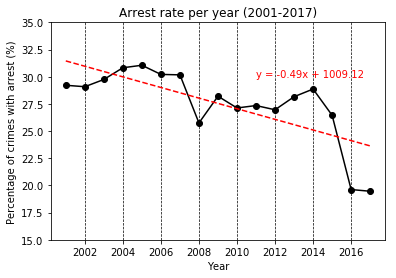
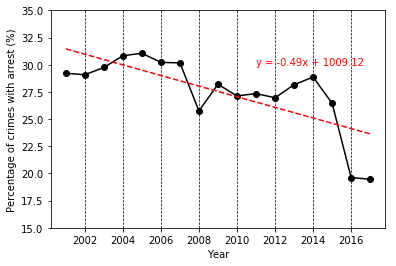
Visualizations

Changed region(s): [[0.1515, 0.1805, 0.9697, 0.7218], [0.0, 0.0301, 0.9697, 0.812], [0.0606, 0.8421, 0.9697, 0.9925]]

diff --git a/Assignment 2/Code/Francois/overallmap.html b/Assignment 2/Code/Francois/overallmap.html
@@ -1,0 +1,75 @@
+<!DOCTYPE html>
+<head>    
+    <meta http-equiv="content-type" content="text/html; charset=UTF-8" />
+    <script>L_PREFER_CANVAS=false; L_NO_TOUCH=false; L_DISABLE_3D=false;</script>
+    <script src="https://cdn.jsdelivr.net/npm/leaflet@1.2.0/dist/leaflet.js"></script>
+    <script src="https://ajax.googleapis.com/ajax/libs/jquery/1.11.1/jquery.min.js"></script>
+    <script src="https://maxcdn.bootstrapcdn.com/bootstrap/3.2.0/js/bootstrap.min.js"></script>
+    <script src="https://cdnjs.cloudflare.com/ajax/libs/Leaflet.awesome-markers/2.0.2/leaflet.awesome-markers.js"></script>
+    <link rel="stylesheet" href="https://cdn.jsdelivr.net/npm/leaflet@1.2.0/dist/leaflet.css"/>
+    <link rel="stylesheet" href="https://maxcdn.bootstrapcdn.com/bootstrap/3.2.0/css/bootstrap.min.css"/>
+    <link rel="stylesheet" href="https://maxcdn.bootstrapcdn.com/bootstrap/3.2.0/css/bootstrap-theme.min.css"/>
+    <link rel="stylesheet" href="https://maxcdn.bootstrapcdn.com/font-awesome/4.6.3/css/font-awesome.min.css"/>
+    <link rel="stylesheet" href="https://cdnjs.cloudflare.com/ajax/libs/Leaflet.awesome-markers/2.0.2/leaflet.awesome-markers.css"/>
+    <link rel="stylesheet" href="https://rawgit.com/python-visualization/folium/master/folium/templates/leaflet.awesome.rotate.css"/>
+    <style>html, body {width: 100%;height: 100%;margin: 0;padding: 0;}</style>
+    <style>#map {position:absolute;top:0;bottom:0;right:0;left:0;}</style>
+    
+    <style>#map_36b703a30212484faa273f664e2eba12 {
+        position: relative;
+        width: 100.0%;
+        height: 100.0%;
+        left: 0.0%;
+        top: 0.0%;
+        }
+    </style>
+    <script src="https://leaflet.github.io/Leaflet.heat/dist/leaflet-heat.js"></script>
+</head>
+<body>    
+    
+    <div class="folium-map" id="map_36b703a30212484faa273f664e2eba12" ></div>
+</body>
+<script>    
+    
+    
+        var bounds = null;
+    
+
+    var map_36b703a30212484faa273f664e2eba12 = L.map(
+        'map_36b703a30212484faa273f664e2eba12', {
+        center: [41.8281, -87.6298],
+        zoom: 12,
+        maxBounds: bounds,
+        layers: [],
+        worldCopyJump: false,
+        crs: L.CRS.EPSG3857,
+        zoomControl: true,
+        });
+
+    
+    
+    var tile_layer_acbe4030b320409eb305857ba6369a19 = L.tileLayer(
+        'https://stamen-tiles-{s}.a.ssl.fastly.net/terrain/{z}/{x}/{y}.jpg',
+        {
+        "attribution": null,
+        "detectRetina": false,
+        "maxNativeZoom": 18,
+        "maxZoom": 18,
+        "minZoom": 0,
+        "noWrap": false,
+        "subdomains": "abc"
+}).addTo(map_36b703a30212484faa273f664e2eba12);
+    
+            var heat_map_bc6e206e0873460a99400e4df9d8eedb = L.heatLayer(
+                [[41.882350368, -87.756681491], [41.89087852, -87.745663778], [41.850695232, -87.695413067], [41.8840708, -87.722149853], [41.87448398, -87.718334431], [41.882435247, -87.733079304], [41.877039505, -87.729311002], [41.878825285, -87.729173009], [41.888411942, -87.751691042], [41.881305719, -87.756316323], [41.882786648, -87.706900228], [41.882313791, -87.752690113], [41.879172555, -87.710952739], [41.865205115, -87.694604352], [41.886150243, -87.756500424], [41.854959168, -87.694309878], [41.892182548, -87.755498573], [41.878521203, -87.751057355], [41.885479884, -87.714193016], [41.88093546, -87.709132611], [41.883843326, -87.75397259], [41.884821576, -87.760247174], [41.884074783, -87.721867046], [41.867671357, -87.695934543], [41.868834791, -87.686098192], [41.884640098, -87.729125574], [41.878772294, -87.73372314], [41.869330268, -87.687341495], [41.88229508, -87.760989506], [41.880511176, -87.744139376], [41.8865745, -87.765086511], [41.884827928, -87.757676459], [41.884756562, -87.757673427], [41.877904548, -87.731517054], [41.874552849, -87.710237503], [41.88227454, -87.720833956], [41.879662518, -87.73393147], [41.885686714, -87.751653331], [41.882297385, -87.760901352], [41.851044726, -87.691155566], [41.883320972, -87.729288566], [41.863798633, -87.695829834], [41.885372086, -87.707973018], [41.869825578, -87.700895375], [41.890193984, -87.752978676], [41.881141034, -87.75631046], [41.884916598, -87.76334948], [41.878764192, -87.734274019], [41.884532588, -87.738494751], [41.881944276, -87.734178216], [41.880402083, -87.752894698], [41.852788089, -87.694243396], [41.850136796, -87.691230714], [41.883057686, -87.751104303], [41.890045974, -87.756281743], [41.88173662, -87.751432105], [41.881974724, -87.731603717], [41.878563206, -87.747983503], [41.885484528, -87.714545522], [41.884673784, -87.726146975], [41.878857958, -87.726521499], [41.877756484, -87.720642095], [41.881907474, -87.704705497], [41.879664208, -87.73372949], [41.880773152, -87.721810393], [41.887293707, -87.760709851], [41.861600002, -87.690818686], [41.885451698, -87.7120229], [41.891965053, -87.754270153], [41.885456329, -87.712371733], [41.883576472, -87.709830347], [41.885346397, -87.709809466], [41.875132297, -87.710819365], [41.885346397, -87.709809466], [41.865218836, -87.694604216], [41.886371913, -87.709656269], [41.885346397, -87.709809466], [41.884496442, -87.741590875], [41.877352998, -87.702881119], [41.884794882, -87.747882556], [41.876701468, -87.751540206], [41.884528849, -87.738832642], [41.880848925, -87.763209368], [41.883320837, -87.729262861], [41.891372774, -87.746794125], [41.882321465, -87.74289255], [41.88453108, -87.738733468], [41.85104092, -87.691456579], [41.881972634, -87.731728591], [41.878521203, -87.751057355], [41.883582151, -87.709360238], [41.885336056, -87.738909623], [41.884574376, -87.734917492], [41.894081682, -87.744179948], [41.854573555, -87.695536037], [41.879268101, -87.743618348], [41.883672448, -87.752740241], [41.881011636, -87.730584551], [41.879665484, -87.704716455], [41.876894273, -87.711356724], [41.894081682, -87.744179948], [41.891377647, -87.74613666], [41.880970165, -87.750190529], [41.880443165, -87.749629814], [41.89265712, -87.745728277], [41.87834845, -87.709282635], [41.881971063, -87.73195261], [41.884807342, -87.75033191], [41.87722724, -87.714573778], [41.892067276, -87.755495939], [41.88456033, -87.735909158], [41.882784485, -87.707006744], [41.878797386, -87.731699622], [41.878060291, -87.743552341], [41.877966315, -87.726566655], [41.878083645, -87.741690431], [41.87879543, -87.731850193], [41.852871485, -87.691482324], [41.886373999, -87.709535057], [41.887293707, -87.760709851], [41.879417527, -87.751934184], [41.879162037, -87.753508135], [41.879264158, -87.743919492], [41.881769712, -87.74876212], [41.879413972, -87.752316111], [41.867459843, -87.698374433], [41.867511611, -87.686992668], [41.884377535, -87.751077631], [41.87768079, -87.746074793], [41.885649271, -87.754562223], [41.884964505, -87.756456004], [41.867620011, -87.702040556], [41.876168106, -87.726429446], [41.885075608, -87.758911829], [41.880983904, -87.750194076], [41.878306869, -87.699684455], [41.880890087, -87.763209002], [41.883006284, -87.763285669], [41.877078298, -87.726259269], [41.89361121, -87.753105675], [41.885796343, -87.706261206], [41.878308499, -87.69948248], [41.884468347, -87.744132398], [41.883534484, -87.756402767], [41.88171283, -87.753239038], [41.878940618, -87.701147005], [41.887509022, -87.707316832], [41.876889851, -87.706003122], [41.8779684, -87.726441788], [41.876028038, -87.692069498], [41.878715383, -87.738611126], [41.881274093, -87.758765942], [41.878085444, -87.741506816], [41.87671154, -87.750820421], [41.894005312, -87.751809249], [41.851957226, -87.691407043], [41.879633871, -87.707973888], [41.857401475, -87.694788463], [41.88548439, -87.714519817], [41.879548259, -87.714459585], [41.883014431, -87.754490523], [41.881713257, -87.753323494], [41.877962146, -87.726816388], [41.876889851, -87.706003122], [41.868314848, -87.69766106], [41.877917143, -87.715797232], [41.883014431, -87.754490523], [41.877018633, -87.731084735], [41.888673538, -87.747009792], [41.880514786, -87.702956531], [41.852873122, -87.691284098], [41.880778039, -87.750184931], [41.878739722, -87.73642605], [41.878188634, -87.74933454], [41.885647128, -87.729105069], [41.859244767, -87.694142402], [41.876768799, -87.746435646], [41.885778565, -87.76064626], [41.883603754, -87.757628691], [41.882981702, -87.722218988], [41.878764192, -87.734274019], [41.881738731, -87.751307231], [41.877882222, -87.73354419], [41.885358666, -87.736918975], [41.850137206, -87.691304117], [41.881972634, -87.731728591], [41.8865745, -87.765086511], [41.877851463, -87.736067119], [41.882948676, -87.761633664], [41.891923124, -87.757939633], [41.878085576, -87.741532518], [41.883784731, -87.735578531], [41.856393346, -87.695598712], [41.877613754, -87.751234503], [41.854896033, -87.694306836], [41.884519099, -87.739600253], [41.877232939, -87.714103716], [41.877957845, -87.703583864], [41.880742866, -87.72437383], [41.881088655, -87.720764494], [41.867729003, -87.695937642], [41.877479257, -87.692473591], [41.881916134, -87.736679247], [41.869330124, -87.687315796], [41.874581632, -87.709473494], [41.890640001, -87.755442694], [41.879777172, -87.724427063], [41.859244767, -87.694142402], [41.885908871, -87.706263778], [41.892190108, -87.754275465], [41.877933128, -87.703580435], [41.886399263, -87.707621463], [41.868821071, -87.68609833], [41.883069399, -87.763285108], [41.865260018, -87.694607477], [41.87874155, -87.736249776], [41.881906911, -87.704602681], [41.876750158, -87.703544314], [41.886399263, -87.707621463], [41.886542066, -87.755288658], [41.88809069, -87.760390567], [41.877298326, -87.70894769], [41.863400636, -87.695815432], [41.876924728, -87.738870075], [41.884751129, -87.752778215], [41.880309917, -87.735464033], [41.879075191, -87.749366861], [41.879494242, -87.745977404], [41.883574366, -87.709947881], [41.8884167, -87.75046436], [41.881738601, -87.751281527], [41.877140739, -87.721477831], [41.868420816, -87.687145052], [41.877338858, -87.704305968], [41.876894372, -87.702320152], [41.878770335, -87.733873711], [41.881861585, -87.707357271], [41.886417779, -87.758958565], [41.873737423, -87.701627875], [41.879633871, -87.707973888], [41.879437262, -87.750413773], [41.879167386, -87.713548922], [41.891603117, -87.745686519], [41.882324537, -87.735529713], [41.887858393, -87.725870759], [41.87852563, -87.750848011], [41.883322403, -87.729038837], [41.878558822, -87.748200191], [41.878712753, -87.738633183], [41.887876165, -87.7488607], [41.883171147, -87.741625138], [41.891438165, -87.741886739], [41.887872826, -87.749283072], [41.877935729, -87.72909326], [41.866604054, -87.686645691], [41.878800777, -87.73129934], [41.887285778, -87.75693091], [41.885451579, -87.712000866], [41.851912547, -87.694714592], [41.877140857, -87.721499862], [41.888322067, -87.75291115], [41.893013865, -87.753827285], [41.891327825, -87.751444225], [41.88079176, -87.750184807], [41.886303497, -87.714765311], [41.878563206, -87.747983503], [41.886643019, -87.763407584], [41.865205115, -87.694604352], [41.881907594, -87.704727529], [41.876807805, -87.70354742], [41.885188135, -87.758914493], [41.858918534, -87.693216918], [41.876728668, -87.715757267], [41.88173649, -87.751406401], [41.890186852, -87.745640737], [41.877476779, -87.692521351], [41.876882139, -87.701093855], [41.879747768, -87.726648948], [41.878713, -87.738680917], [41.881771933, -87.748659279], [41.88533468, -87.739174049], [41.883582151, -87.709360238], [41.877939768, -87.728817824], [41.877352817, -87.702848073], [41.876229753, -87.721497536], [41.8931856, -87.744430591], [41.882292995, -87.761121725], [41.863568068, -87.695821111], [41.89007705, -87.745634398], [41.878823333, -87.72932358], [41.890375151, -87.752988054], [41.875887439, -87.704859964], [41.868419042, -87.687317627], [41.881906911, -87.704602681], [41.891777712, -87.753037795], [41.885372606, -87.708068496], [41.8709931, -87.702113843], [41.864259582, -87.693347204], [41.883192958, -87.761642503], [41.876770624, -87.746255705], [41.852867412, -87.691735631], [41.852867125, -87.691684247], [41.887238537, -87.763964185], [41.880417645, -87.751631349], [41.880905236, -87.71216242], [41.878799341, -87.731549051], [41.883053594, -87.75137976], [41.885614994, -87.757023049], [41.885447881, -87.711824627], [41.887503211, -87.707761263], [41.881734769, -87.751608387]],
+                {
+                    minOpacity: 0.025,
+                    maxZoom: 1,
+                    max: 1.0,
+                    radius: 10.5,
+                    blur: 23,
+                    gradient: null
+                    })
+                .addTo(map_36b703a30212484faa273f664e2eba12);
+        
+</script>

diff --git a/Assignment 2/Code/Francois/Heatmap Visualisation.py b/Assignment 2/Code/Francois/Heatmap Visualisation.py
@@ -1,0 +1,68 @@
+import folium
+from folium.plugins import HeatMap
+import linecache
+import csv
+from datetime import datetime
+
+def str2bool(v):
+    return v.lower() in ("yes", "true", "t", "1")
+        
+LOCATION = '/home/francois/Source/smaller.csv'
+LOCATION = '/home/francois/Source/Crimes_-_2001_to_present.csv'
+lines = 6683206
+
+rng = [x + 2 for x in range(lines-1)]
+data = []
+for i in rng:
+    if (i % 10 != 0): continue
+    if (i >= len(rng)): break
+    line = linecache.getline(LOCATION, rng[i])
+    reader = csv.reader(line.splitlines(), quotechar='"', delimiter=',')
+    splitted = next(reader)
+    try:
+        lat = float(splitted[19])
+        lng = float(splitted[20])
+        arrest = str2bool(splitted[8])
+        domestic = str2bool(splitted[9])
+        primaryType = splitted[5]
+        year = int(splitted[17])
+        locationDescription = splitted[7]
+        ward = int(splitted[12])
+        ts = datetime.strptime(splitted[2], '%m/%d/%Y %I:%M:%S %p')
+        data.append((lat, lng, arrest, domestic, primaryType, year, locationDescription, ward, ts))
+    except:
+        pass
+
+filteredData = [x for x in data if x[5] >= 2001 and x[5] < 2006]
+filteredData = [x for x in data if x[5] >= 2006 and x[5] < 2012]
+filteredData = [x for x in data if x[5] >= 2012 and x[5] < 2019]
+filteredData = [x for x in data if x[4] == 'ASSAULT']
+filteredData = [x for x in data if x[6] == 'GAS STATION']
+filteredData = [x for x in data if x[2] == False]
+filteredData = [x for x in data if x[2] == True]
+filteredData = [x for x in data if x[7] == 28 and x[6] == 'GAS STATION'] 
+filteredData = [x for x in data if x[7] == 28 and x[4] == 'BURGLARY' and x[5] > 2010] 
+
+m = folium.Map([41.8281, -87.6298], zoom_start=12, tiles = "Stamen Terrain")
+hm_wide = HeatMap([(x[0], x[1]) for x in filteredData], min_opacity=0.025, radius=10.5, blur=23, max_zoom=1)
+m.add_child(hm_wide)
+m.save("overallmap.html")
+
+
+
+
+
+
+
+
+#filteredData =  data #[x for x in data if x[2] == False]
+#filteredData.sort(key=lambda tup: (tup[8]))
+#index = [x[8].strftime('%Y-%m-%d') for x in filteredData]
+#hm = folium.plugins.HeatMapWithTime([(x[0], x[1]) for x in filteredData], index, auto_play=True)
+#m = folium.Map([41.8281, -87.6298], zoom_start=10, tiles = "Stamen Terrain")
+#m.add_child(hm)
+#m.save("overallmap.html")
+
+
+
+

diff --git a/Assignment 2/Code/Francois/NB_Visualiser_LocationDescrption.py b/Assignment 2/Code/Francois/NB_Visualiser_LocationDescrption.py
@@ -1,0 +1,31 @@
+import ast
+import matplotlib.pyplot as plt
+
+PROBABILITIES_PATH = './Results/Arrests Likelihood Table.txt'
+with open(PROBABILITIES_PATH) as f:
+    data = f.readlines()
+output = dict() 
+data = [x.strip().split('\t') for x in data]   
+for x in data:
+    output[x[0].strip('"')] = ast.literal_eval(x[1])
+probabilities = output
+probabilities = probabilities["Location Description"]
+probabilities = [(v, k) for k, v in probabilities.items()]
+probabilities.sort(key=lambda tup: (tup[0][2]), reverse=True)
+probabilities = probabilities[:20]
+probabilities = [(x[1], x[0][0] / (x[0][0] + x[0][1])) for x in probabilities]
+probabilities.sort(key=lambda tup: (tup[1]))
+
+x = [x[0] for x in probabilities]
+y = [x[1] * 100 for x in probabilities]
+plt.barh(x, y, color='#777777')
+plt.xlabel('Percentage arrests made (%)')
+plt.axvline(x=25, color='k', linestyle='--', linewidth=0.5)
+plt.axvline(x=50, color='k', linestyle='--', linewidth=0.5)
+plt.axvline(x=75, color='k', linestyle='--', linewidth=0.5)
+plt.show()
+
+
+
+
+

diff --git a/Assignment 2/Code/Francois/NB_Visualiser_PrimaryType.py b/Assignment 2/Code/Francois/NB_Visualiser_PrimaryType.py
@@ -1,0 +1,31 @@
+import ast
+import matplotlib.pyplot as plt
+
+PROBABILITIES_PATH = './Results/Arrests Likelihood Table.txt'
+with open(PROBABILITIES_PATH) as f:
+    data = f.readlines()
+output = dict() 
+data = [x.strip().split('\t') for x in data]   
+for x in data:
+    output[x[0].strip('"')] = ast.literal_eval(x[1])
+probabilities = output
+probabilities = probabilities["Primary Type"]
+probabilities = [(v, k) for k, v in probabilities.items()]
+probabilities.sort(key=lambda tup: (tup[0][2]), reverse=True)
+probabilities = probabilities[:10]
+probabilities = [(x[1], x[0][0] / (x[0][0] + x[0][1])) for x in probabilities]
+probabilities.sort(key=lambda tup: (tup[1]))
+
+x = [x[0] for x in probabilities]
+y = [x[1] * 100 for x in probabilities]
+plt.barh(x, y, color='#777777')
+plt.xlabel('Percentage arrests made (%)')
+plt.axvline(x=20, color='k', linestyle='--', linewidth=0.5)
+plt.axvline(x=50, color='k', linestyle='--', linewidth=0.5)
+plt.axvline(x=100, color='k', linestyle='--', linewidth=0.5)
+plt.show()
+
+
+
+
+

diff --git a/Assignment 2/Code/Francois/NB_Visualiser_Domestic.py b/Assignment 2/Code/Francois/NB_Visualiser_Domestic.py
@@ -1,0 +1,30 @@
+import ast
+import matplotlib.pyplot as plt
+
+PROBABILITIES_PATH = './Results/Arrests Likelihood Table.txt'
+with open(PROBABILITIES_PATH) as f:
+    data = f.readlines()
+output = dict() 
+data = [x.strip().split('\t') for x in data]   
+for x in data:
+    output[x[0].strip('"')] = ast.literal_eval(x[1])
+probabilities = output
+probabilities = probabilities["Domestic"]
+probabilities = [(v, k) for k, v in probabilities.items()]
+probabilities.sort(key=lambda tup: (tup[0][2]), reverse=True)
+probabilities = probabilities[:10]
+probabilities = [(x[1], x[0][0] / (x[0][0] + x[0][1])) for x in probabilities]
+probabilities.sort(key=lambda tup: (tup[1]))
+
+x = ['Non-Domestic', 'Domestic'] #[x[0] for x in probabilities]
+y = [x[1] * 100 for x in probabilities]
+plt.barh(x, y, color='#777777')
+plt.xlabel('Percentage arrests made (%)')
+plt.axvline(x=15, color='k', linestyle='--', linewidth=0.5)
+plt.axvline(x=25, color='k', linestyle='--', linewidth=0.5)
+plt.show()
+
+
+
+
+

diff --git a/Assignment 2/Code/Francois/NB_Visualiser_Ward.py b/Assignment 2/Code/Francois/NB_Visualiser_Ward.py
@@ -1,0 +1,32 @@
+import ast
+import matplotlib.pyplot as plt
+
+PROBABILITIES_PATH = './Results/Arrests Likelihood Table.txt'
+with open(PROBABILITIES_PATH) as f:
+    data = f.readlines()
+output = dict() 
+data = [x.strip().split('\t') for x in data]   
+for x in data:
+    output[x[0].strip('"')] = ast.literal_eval(x[1])
+probabilities = output
+probabilities = probabilities["Ward"]
+probabilities = [(v, k) for k, v in probabilities.items()]
+
+probabilities.sort(key=lambda tup: (tup[0][2]), reverse=True)
+probabilities = probabilities[:20]
+probabilities = [(x[1], x[0][0] / (x[0][0] + x[0][1])) for x in probabilities]
+probabilities.sort(key=lambda tup: (tup[1]))
+
+x = [x[0] for x in probabilities]
+y = [x[1] * 100 for x in probabilities]
+plt.barh(x, y, color='#777777')
+plt.xlabel('Percentage arrests made (%)')
+plt.axvline(x=20, color='k', linestyle='--', linewidth=0.5)
+plt.axvline(x=40, color='k', linestyle='--', linewidth=0.5)
+plt.ylabel('Ward Number')
+plt.show()
+
+
+
+
+

diff --git a/Assignment 2/Code/Francois/7. Arrests per Year.viz.py b/Assignment 2/Code/Francois/7. Arrests per Year.viz.py
@@ -35,7 +35,7 @@ plt.axvline(x=2010, color='k', linestyle='--', linewidth=0.7)
 plt.axvline(x=2012, color='k', linestyle='--', linewidth=0.7)
 plt.axvline(x=2014, color='k', linestyle='--', linewidth=0.7)
 plt.axvline(x=2016, color='k', linestyle='--', linewidth=0.7)
-plt.title('Arrest rate per year (2001-2017)')
+#plt.title('Arrest rate per year (2001-2017)')
 z = np.polyfit(x, y, 1)
 p = np.poly1d(z)
 plt.plot(x,p(x),"r--")

diff --git a/Assignment 2/Code/Francois/4. Crimes per Type.viz.py b/Assignment 2/Code/Francois/4. Crimes per Type.viz.py
@@ -26,5 +26,5 @@ plt.axvline(x=12.5, color='k', linestyle='--', linewidth=0.5)
 plt.axvline(x=15, color='k', linestyle='--', linewidth=0.5)
 plt.axvline(x=17.5, color='k', linestyle='--', linewidth=0.5)
 plt.axvline(x=20, color='k', linestyle='--', linewidth=0.5)
-plt.title('Crime types as a percentage of all crimes (2001-2018)')
+#plt.title('Crime types as a percentage of all crimes (2001-2018)')
 plt.show()

diff --git a/Assignment 2/Code/Francois/6. Arrests in Total.viz.py b/Assignment 2/Code/Francois/6. Arrests in Total.viz.py
@@ -15,5 +15,5 @@ sizes = [counts['No Arrest'], counts['Arrest']]
 fig1, ax1 = plt.subplots()
 ax1.pie(sizes,labels=labels, autopct='%1.1f%%', startangle=90)
 ax1.axis('equal')
-plt.title('Arrests over the entire period (2001 - 2018)')
+#plt.title('Arrests over the entire period (2001 - 2018)')
 plt.show()
